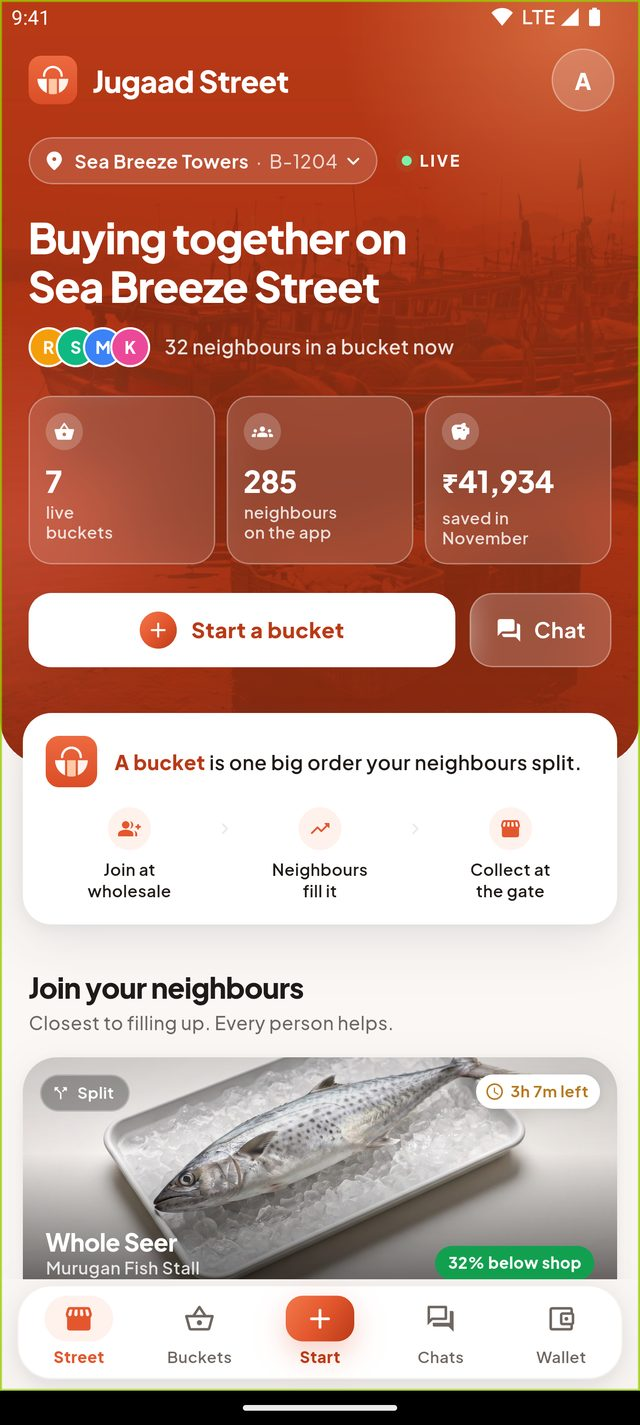
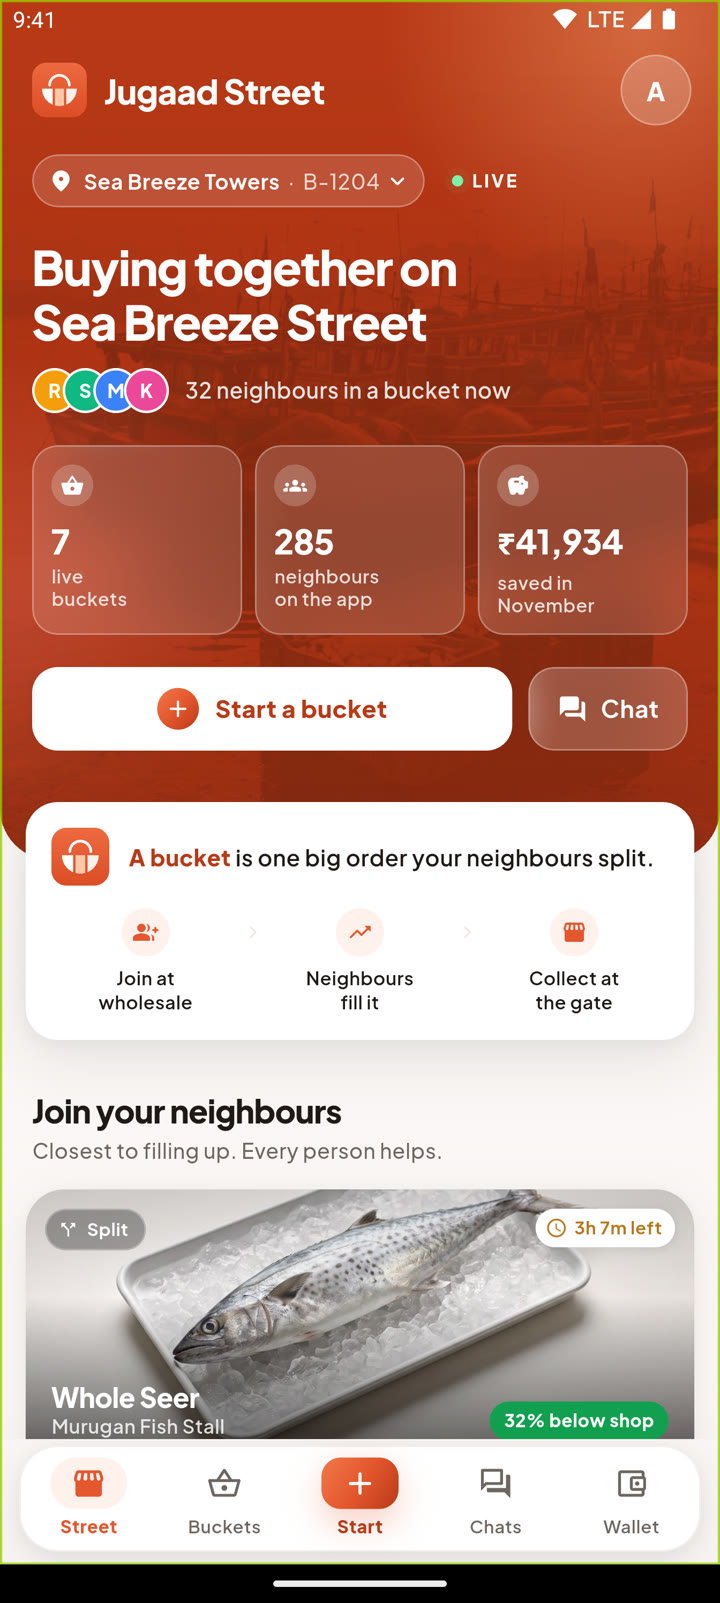
Site: real phone proportions (20:9) with the new home screenshot

diff --git a/site/index.html b/site/index.html
@@ -50,9 +50,10 @@ nav ul a{text-decoration:none;color:var(--mute)}nav ul a:hover{color:var(--ink)}
 .hero .meta{display:flex;gap:22px;align-items:center;flex-wrap:wrap;font-size:14px;color:var(--mute)}
 .hero .meta span{display:inline-flex;align-items:center;gap:7px}
 .hero .meta .i{width:16px;height:16px;color:var(--teal)}
-.visual{position:relative;padding:0 0 64px 64px}
+.visual{position:relative;padding:0 0 90px 120px}
 .visual .art{border-radius:26px;width:100%;aspect-ratio:2752/1536}
-.visual .ph{position:absolute;left:0;bottom:0;width:36%;border-radius:26px;border:7px solid var(--ink);background:var(--ink);box-shadow:0 30px 60px -20px #1f1a1766;overflow:hidden;aspect-ratio:9/16}
+.visual .ph{position:absolute;left:0;bottom:0;width:31%;border-radius:34px;border:9px solid var(--ink);background:var(--ink);box-shadow:0 30px 60px -20px #1f1a1766;overflow:hidden;aspect-ratio:1344/2992}
+.visual .ph:before{content:"";position:absolute;top:8px;left:50%;width:10px;height:10px;margin-left:-5px;background:#000;border-radius:50%;z-index:2}
 .visual .ph img{width:100%;height:100%;object-fit:cover;object-position:top}
 .visual .card{position:absolute;right:-8px;bottom:6px;background:#fff;border-radius:16px;padding:14px 16px;width:236px;box-shadow:0 18px 40px -18px #1f1a1755;font-size:13px}
 .visual .card b{display:block;font-size:15px}
@@ -122,7 +123,7 @@ nav ul a{text-decoration:none;color:var(--mute)}nav ul a:hover{color:var(--ink)}
 .logins td small{color:var(--mute);font-size:13px;margin-left:8px}
 .logins .otp{color:var(--tomato);font-weight:700}
 .phonebox{display:flex;flex-direction:column;align-items:center;gap:16px}
-.phone{width:300px;aspect-ratio:9/19.5;background:var(--ink);border-radius:46px;padding:10px;box-shadow:0 40px 80px -30px #1f1a1780;position:relative;cursor:pointer}
+.phone{width:300px;aspect-ratio:9/20;background:var(--ink);border-radius:46px;padding:10px;box-shadow:0 40px 80px -30px #1f1a1780;position:relative;cursor:pointer}
 .phone:before{content:"";position:absolute;top:19px;left:50%;width:74px;height:8px;margin-left:-37px;background:#000;border-radius:9px;z-index:3}
 .screen{position:relative;width:100%;height:100%;border-radius:36px;overflow:hidden;background:#fff}
 .screen .sl{position:absolute;inset:0;transition:transform .35s ease;will-change:transform}
@@ -169,6 +170,7 @@ footer a{text-decoration:none}footer a:hover{color:#fff}
  .beats{grid-template-columns:1fr 1fr}
 }
 @media(max-width:720px){
+ .visual{padding:0 0 40px 96px;margin-top:64px}
  body{font-size:16px}
  .wrap{padding:0 20px}
  nav ul{display:none}
@@ -245,7 +247,7 @@ footer a{text-decoration:none}footer a:hover{color:#fff}
 </div>
 <div class="visual">
 <img class="art" src="assets/img/hero_fish.jpg" width="1600" height="893" alt="Illustration: a fish seller at Kasimedu harbour holds up a whole vanjaram on ice">
-<div class="ph"><img src="assets/img/app_home.jpg" width="640" height="1425" alt="Jugaad Street home screen for Sea Breeze Street"></div>
+<div class="ph"><img src="assets/img/app_home.jpg" width="720" height="1603" alt="Jugaad Street home screen for Sea Breeze Street"></div>
 <div class="card" aria-hidden="true"><span class="live">Live in street chat</span><b>Whole Vanjaram · 5 kg</b>
 <div class="bar"><i></i></div><div class="row"><span>2 of 3 parts</span><span>₹950 / part</span></div></div>
 </div>
